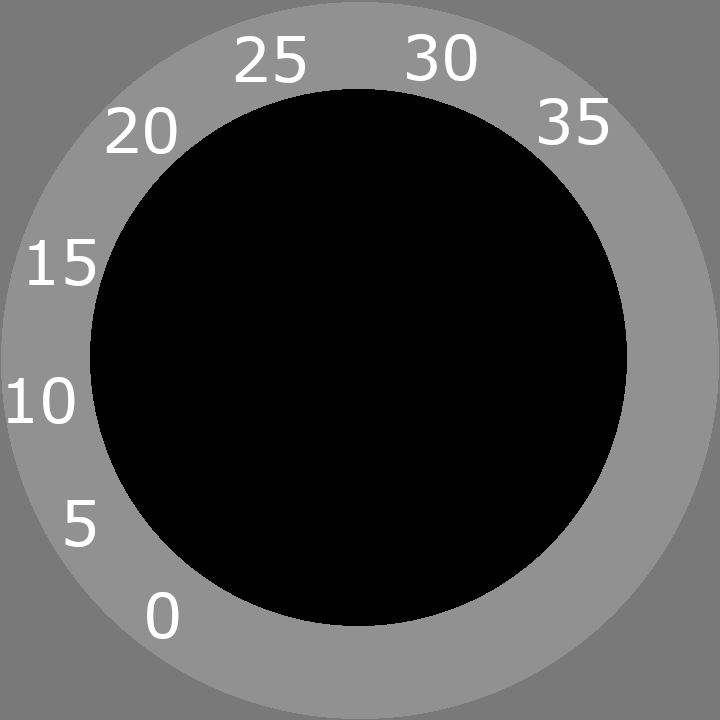
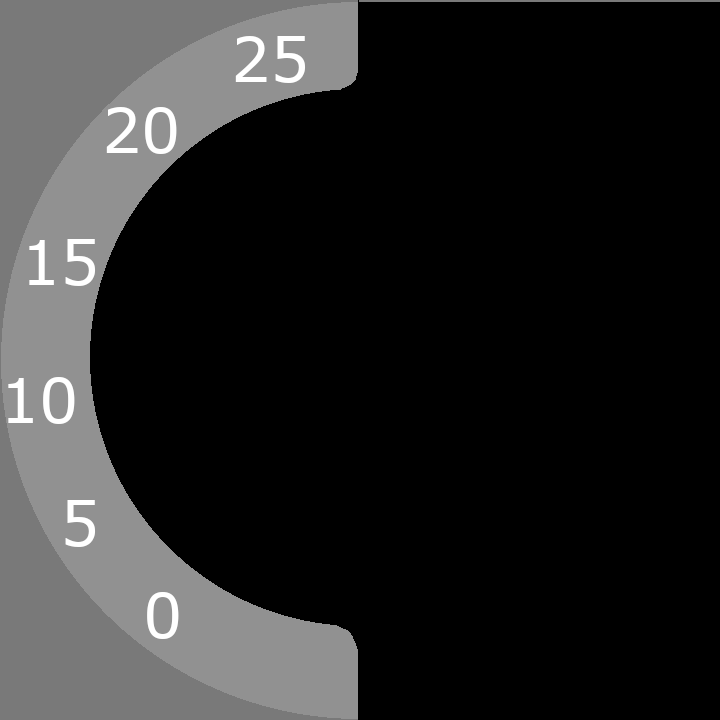
ui: Use half screen for speedometer, correct target build

Changed region(s): [[0.4583, 0.0, 1.0, 1.0]]

diff --git a/src/ui/ui.cc b/src/ui/ui.cc
@@ -8,6 +8,7 @@
 #include "speedometer.hh"
 #include "time.hh"
 
+#include <cmath>
 #include <numbers>
 
 UserInterface::UserInterface(const MapMetadata& metadata,
@@ -188,8 +189,8 @@ UserInterface::DrawSpeedometer()
     painter::MaskBlit(m_frame_buffer, *m_speedometer, {0, 0});
 
     float angle = kAngle0Knots + (kAngle35Knots - kAngle0Knots) * m_speed / 35;
-    int32_t x = kCentre.x + (kCircleWidth + m_speed_dial->width) * std::cosf(angle) / 2;
-    int32_t y = kCentre.y + (kCircleWidth + m_speed_dial->height) * std::sinf(angle) / 2;
+    int32_t x = kCentre.x + (kCircleWidth + m_speed_dial->width) * cosf(angle) / 2;
+    int32_t y = kCentre.y + (kCircleWidth + m_speed_dial->height) * sinf(angle) / 2;
 
     painter::MaskBlit(m_frame_buffer,
                       *m_speed_dial,
